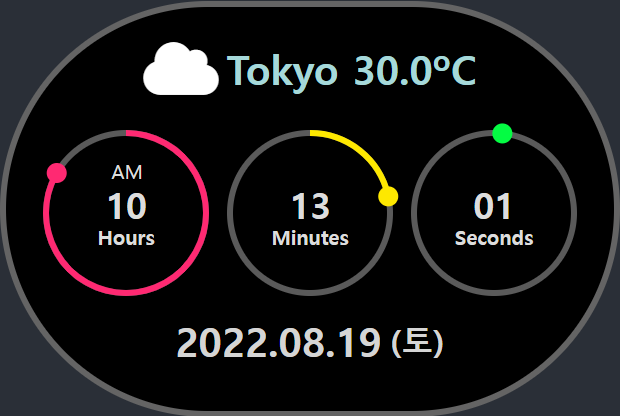
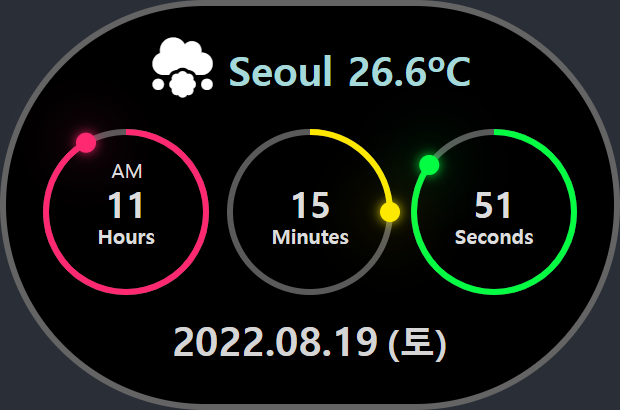
수정

diff --git a/index.js b/index.js
@@ -19,53 +19,50 @@ const clock = {
             '13' : 'far fa-snowflake',
             '50' : 'fas fa-smog'
         };
-        const tit = document.querySelector(".tit");
+        const tits = document.querySelector(".tit");
         const test = document.querySelector(".test");
-        navigator.geolocation.getCurrentPosition((position)=>{
-            test.innerHTML = "현재 사용자는 위도 " + position.coords.latitude + ", 경도 " + position.coords.longitude + "에 위치하고 있습니다.";
-            console.log("현재 사용자는 위도 " + position.coords.latitude + ", 경도 " + position.coords.longitude + "에 위치하고 있습니다.");
-            myLat = position.coords.latitude;
-            myLon = position.coords.longitude;
-            
-            setGeo(myLat,myLon);
+
+        navigator.geolocation.getCurrentPosition( posit => { /* 위도,경도 가져오기 */
+            let myLat = posit.coords.latitude;
+            let myLon = posit.coords.longitude;
+            test.innerHTML = "현재 사용자는 위도 " + myLat + ", 경도 " + myLon + "에 위치하고 있습니다.";
+            getCity(myLat,myLon);
         },(err)=>{
             console.log(err.message);
             // let myLat = "35.6895";
             // let myLon = "139.6917";
-            // let myCity = "tokyo";
-            // setGeo(myLat,myLon);
-            setCity("seoul");
+            let myCity = "seoul";
+            setCity(myCity);
             test.innerHTML = err.message;
         });
 
-        function setGeo(myLat,myLon){
-            fetch('//api.openweathermap.org/geo/1.0/reverse?lat='+myLat+'&lon='+myLon+'&appid=65580fe0755188a571a8abece81b2ad2')
-            .then( res => res.ok ? res.json() : null )
-            .then( data => {
-                myCity = data[0].local_names.en;
-                
-                console.log( data , myCity);
-                setCity(myCity);
-            });
-        }
+        const appid = "65580fe0755188a571a8abece81b2ad2"; /* api.openweathermap.org */
 
-        function setCity(myCity){
-            fetch('//api.openweathermap.org/data/2.5/weather?q='+myCity+'&appid=65580fe0755188a571a8abece81b2ad2&units=metric')
-            .then( res => res.ok ? res.json() : null )
+        const getCity = (myLat,myLon) => { /* 위도,경도로 도시이름 가져오기 */
+            fetch('//api.openweathermap.org/geo/1.0/reverse?lat='+myLat+'&lon='+myLon+'&appid='+appid+'')
+            .then( rest => rest.ok ? rest.json() : null )
+            .then( data => {
+                let myCity = data[0].local_names.en;
+                setCity(myCity);
+                console.log( data , myCity);
+            });
+        };
+
+        const setCity = (myCity) => {  /* 도시이름으로 날씨,온도,아이콘 가져오기 */
+            fetch('//api.openweathermap.org/data/2.5/weather?q='+myCity+'&appid='+appid+'&units=metric')
+            .then( rest => rest.ok ? rest.json() : null )
             .then( data => {
                 test.innerHTML = myCity + " - " + test.innerHTML ;
-                const city = data.name || 'tokyo';
-                // const temp = (data.main.temp).toFixed(1) +' ºC';
-                const temp = (Math.floor(data.main.temp * 10) / 10).toFixed(1) +'ºC';
+                const city = data.name;
+                const temp = (Math.floor(data.main.temp * 10) / 10).toFixed(1) +'ºC'; /* 소수점 첫째자리만 */
                 const icon = (data.weather[0].icon).substr(0,2);
+                tits.innerHTML = '<i class="' + icons[icon] +'"></i> <b>' + city + ' '+ temp + '</b>';
                 console.log( data, icon , temp , city );
-                tit.innerHTML = '<i class="' + icons[icon] +'"></i> <b>' + city + ' '+ temp + '</b>';
             });
-        }
-
+        };
 
     },
-    draw: function(){
+    draw: function(){ /* 시계 렌더링 */
         const hour = document.getElementById("hour");
         const mins = document.getElementById("mins");
         const secs = document.getElementById("secs");
@@ -85,14 +82,13 @@ const clock = {
             "ko": ["월","화","수","목","금","토","일"]
         };
 
-        const dgt = n => n < 10 ? "0" + n : n;
+        const dgt = n => n < 10 ? "0" + n : n; /* "01","02" 만들기 */
 
         const date = new Date();
         const yy = date.getFullYear();
         const mo = date.getMonth()+1;
         const wk = date.getDay();
         const dy = date.getDate();
-        
 
         let h = date.getHours();
         let m = date.getMinutes();

diff --git a/style.css b/style.css
@@ -17,7 +17,7 @@ body{background-color: #2a2f37;touch-action: pan-y;color: #666666;display: flex;
 .clocksvg .circle svg circle{width: 100%;height: 100%;fill: #531356;fill: transparent;stroke: #5a5a5a;stroke-width: 3px;transform: translate(3px, 3px);position: absolute;}
 .clocksvg .circle svg circle:nth-child(2){stroke: var(--clr);stroke-dasharray: 250;}
 .clocksvg .circle .dot{position: absolute;width: 100%;height: 100%;text-align: center;display: flex;justify-content: center;z-index: 1;}
-.clocksvg .circle .dot::before{content:"";position: absolute;top: -2px;width: 10px;height: 10px;background: var(--clr);border-radius: 100%; box-shadow:0px 0px 30pxvar(--clr) , 0px 0px 6px var(--clr);}
+.clocksvg .circle .dot::before{content:"";position: absolute;top: -2px;width: 10px;height: 10px;background: var(--clr);border-radius: 100%; box-shadow:0px 0px 30px var(--clr) , 0px 0px 6px var(--clr);}
 .clocksvg .ap{position: absolute;left: 44px;top: 15px;font-size: 9px;transform: translateX(-53%);}
 
 .test{position: absolute;top: 0;left: 0;font-size: 12px;color: #898989;}

diff --git a/index.html b/index.html
@@ -7,7 +7,7 @@
     <title>Digital Clock</title>
     <script async defer src="https://maps.googleapis.com/maps/api/js?key={APP_KEY}"></script>
     <link rel="stylesheet" href="https://cdnjs.cloudflare.com/ajax/libs/font-awesome/6.1.2/css/all.min.css" integrity="sha512-1sCRPdkRXhBV2PBLUdRb4tMg1w2YPf37qatUFeS7zlBy7jJI8Lf4VHwWfZZfpXtYSLy85pkm9GaYVYMfw5BC1A==" crossorigin="anonymous" referrerpolicy="no-referrer" />
-    <link rel="stylesheet" href="./style.css?v=8">
+    <link rel="stylesheet" href="./style.css?v=9">
 </head>
 <body>
 
@@ -44,7 +44,7 @@
     <div class="date">2022.12.31</div>
 </div>
 <div class="test"></div>
-<script src="./index.js?v=8"></script>
+<script src="./index.js?v=9"></script>
 
 </body>
 </html>
